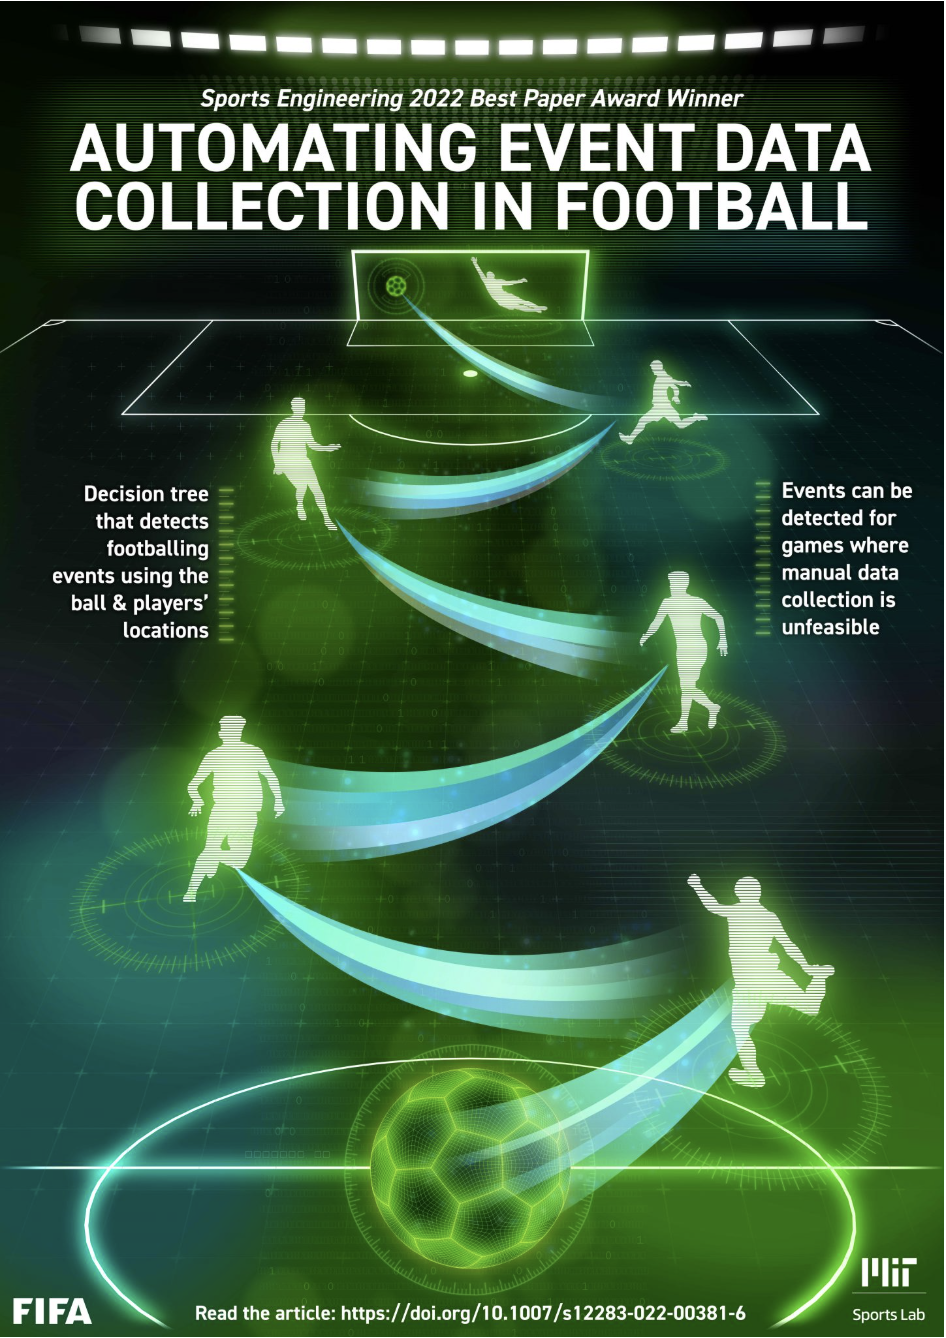
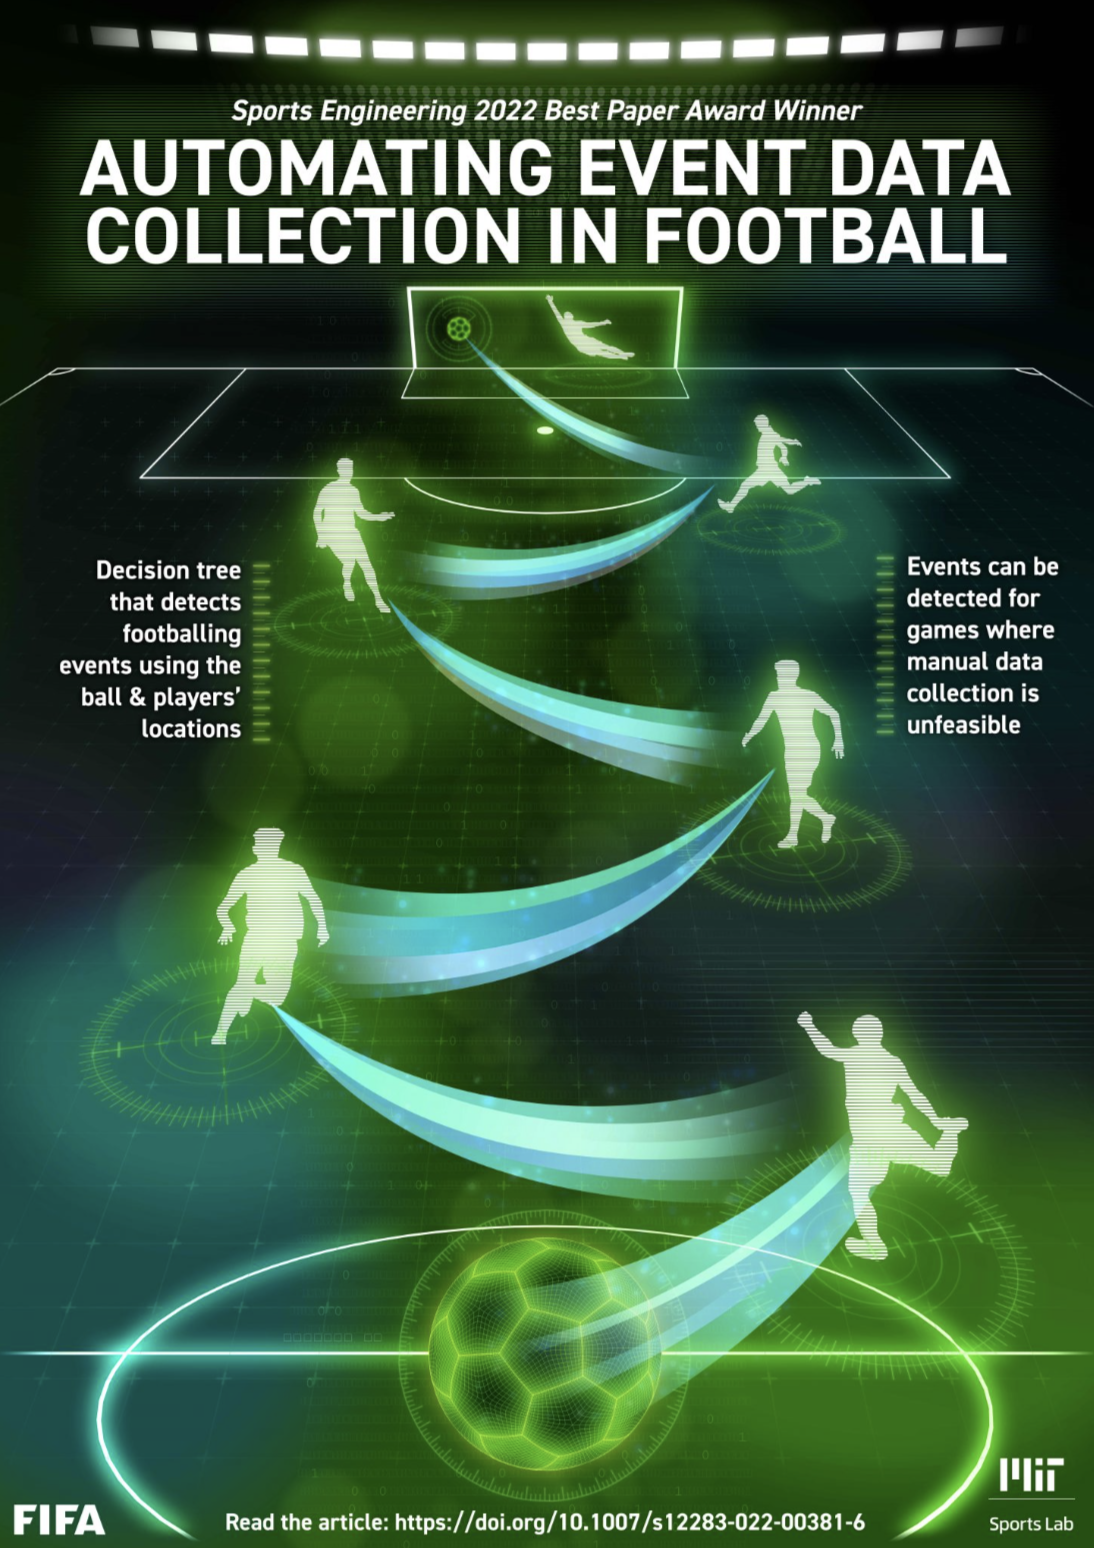
mlb charts, video fifa

diff --git a/assets/js/mlb-charts.js b/assets/js/mlb-charts.js
@@ -58,6 +58,14 @@
     return r.isOut === "true" || e.includes("out") ? "Out" : "Other";
   };
   const eventLabel = (r) => r.event || r.description || "Pitch";
+  const pitchResult = (r) => {
+    if (r.event) return r.isOut === "true" ? "In Play (Out)" : "In Play (Not Out)";
+    const call = (r.call || r.description || "").toLowerCase();
+    if (call.includes("foul")) return "Foul";
+    if (call.includes("swinging") || call.includes("missed bunt")) return "Swinging Strike";
+    if (call.includes("called strike")) return "Called Strike";
+    return "Ball";
+  };
   const tooltip = (wrap, data, type) => {
     const box = wrap.querySelector("[data-mlb-tooltip]");
     const score =
@@ -92,19 +100,82 @@
       wrap = root.querySelector(".fv-mlb-chart-wrap"),
       summary = root.querySelector("[data-mlb-summary]"),
       legend = root.querySelector("[data-mlb-legend]"),
-      filter = root.querySelector("[data-mlb-filter]");
+      metrics = root.querySelector("[data-mlb-metrics]"),
+      resultFilter = root.querySelector("[data-result-filter]");
+    const inputs = {
+      speedMin: root.querySelector("[data-speed-min]"),
+      speedMax: root.querySelector("[data-speed-max]"),
+      angleMin: root.querySelector("[data-angle-min]"),
+      angleMax: root.querySelector("[data-angle-max]"),
+      spinMin: root.querySelector("[data-spin-min]"),
+      spinMax: root.querySelector("[data-spin-max]"),
+      inningMin: root.querySelector("[data-inning-min]"),
+      inningMax: root.querySelector("[data-inning-max]"),
+    };
+    const limits = (key, fallback = 0) => {
+      const values = data
+        .map((r) => +(key === "angle" ? r.launchAngle : key === "spin" ? r.spinRate : key === "inning" ? r.inning : r.speed))
+        .filter(Number.isFinite);
+      return { min: values.length ? Math.min(...values) : fallback, max: values.length ? Math.max(...values) : fallback };
+    };
+    const bounds = { speed: limits("speed"), angle: limits("angle"), spin: limits("spin"), inning: limits("inning", 1) };
     let scale = 1,
       pan = { x: 0, y: 0 },
       drag = null,
       selected = "",
+      resultType = "",
       region = null,
       draft = null,
       selecting = false,
       group;
     const categories = [...new Set(data.map((r) => (kind === "spray" ? outcome(r) : r.pitchType)).filter(Boolean))].sort();
-    filter.innerHTML = `<option value="">All ${kind === "spray" ? "outcomes" : "pitch types"}</option>${categories.map((x) => `<option value="${esc(x)}">${esc(x)}</option>`).join("")}`;
+    const setRange = (name) => {
+      const low = inputs[`${name}Min`],
+        high = inputs[`${name}Max`],
+        limit = bounds[name];
+      if (!low || !high) return;
+      low.min = high.min = limit.min;
+      low.max = high.max = limit.max;
+      low.value = limit.min;
+      high.value = limit.max;
+      const labelMin = root.querySelector(`[data-${name}-min-label]`),
+        labelMax = root.querySelector(`[data-${name}-max-label]`);
+      const suffix = name === "spin" ? " rpm" : name === "inning" ? "" : name === "angle" ? "°" : " mph";
+      const update = () => {
+        labelMin.textContent = `${+low.value}${suffix}`;
+        labelMax.textContent = `${+high.value}${suffix}`;
+        const track = low.closest(".fv-double-range");
+        track.style.setProperty("--fv-range-start", `${((+low.value - limit.min) / Math.max(1, limit.max - limit.min)) * 100}%`);
+        track.style.setProperty("--fv-range-end", `${((+high.value - limit.min) / Math.max(1, limit.max - limit.min)) * 100}%`);
+      };
+      low.addEventListener("input", () => {
+        if (+low.value > +high.value) low.value = high.value;
+        update();
+        render();
+      });
+      high.addEventListener("input", () => {
+        if (+high.value < +low.value) high.value = low.value;
+        update();
+        render();
+      });
+      update();
+    };
+    ["speed", "angle", "spin", "inning"].forEach(setRange);
+    if (resultFilter) {
+      const results = [...new Set(data.map(pitchResult))].sort();
+      resultFilter.innerHTML = `<option value="">All results</option>${results.map((x) => `<option value="${esc(x)}">${esc(x)}</option>`).join("")}`;
+      resultFilter.addEventListener("change", () => {
+        resultType = resultFilter.value;
+        render();
+      });
+    }
     const match = (r) =>
       (!selected || (kind === "spray" ? outcome(r) : r.pitchType) === selected) &&
+      (!resultType || pitchResult(r) === resultType) &&
+      (!inputs.speedMin || (r.speed >= +inputs.speedMin.value && r.speed <= +inputs.speedMax.value)) &&
+      (!inputs.angleMin || (+r.launchAngle >= +inputs.angleMin.value && +r.launchAngle <= +inputs.angleMax.value)) &&
+      (!inputs.spinMin || (+r.spinRate >= +inputs.spinMin.value && +r.spinRate <= +inputs.spinMax.value)) &&
+      (!inputs.inningMin || (+r.inning >= +inputs.inningMin.value && +r.inning <= +inputs.inningMax.value)) &&
       (!region || (r.x >= region.x0 && r.x <= region.x1 && r.y >= region.y0 && r.y <= region.y1));
     const point = (event) => {
       const matrix = group?.getScreenCTM();
@@ -112,11 +183,25 @@
       const p = new DOMPoint(event.clientX, event.clientY).matrixTransform(matrix.inverse());
       return kind === "spray" ? { x: clamp(p.x, 0, 250), y: clamp(p.y, 0, 230) } : { x: clamp(p.x, -3, 3), y: clamp(p.y, 0, 5) };
     };
-    const bounds = (d) => ({ x0: Math.min(d.x0, d.x1), x1: Math.max(d.x0, d.x1), y0: Math.min(d.y0, d.y1), y1: Math.max(d.y0, d.y1) });
+    const regionBounds = (d) => ({ x0: Math.min(d.x0, d.x1), x1: Math.max(d.x0, d.x1), y0: Math.min(d.y0, d.y1), y1: Math.max(d.y0, d.y1) });
     const render = () => {
       const visible = data.filter(match),
         average = visible.length ? visible.reduce((a, r) => a + r.speed, 0) / visible.length : 0;
       summary.innerHTML = `<strong>${visible.length.toLocaleString()}</strong><span>${kind === "spray" ? "batted balls" : "pitches"} · ${average.toFixed(1)} mph avg</span>`;
+      if (metrics) {
+        const hits = visible.filter((r) => ["Single", "Double", "Triple", "Home Run"].includes(outcome(r))).length;
+        const hardHit = visible.filter((r) => r.speed >= 95).length;
+        const homers = visible.filter((r) => outcome(r) === "Home Run").length;
+        metrics.innerHTML = [
+          ["Batted balls", visible.length, visible.length === data.length ? "in view" : `of ${data.length} total`],
+          ["Hits", `${hits}/${visible.length}`, visible.length ? `${((hits / visible.length) * 100).toFixed(1)}% hit rate` : "no batted balls"],
+          ["Hard-Hit%", visible.length ? `${((hardHit / visible.length) * 100).toFixed(1)}%` : "--", "95+ mph exit velo"],
+          ["Avg exit velo", visible.length ? `${average.toFixed(1)} mph` : "--", "batted ball speed"],
+          ["Home runs", homers, visible.length ? `${((homers / visible.length) * 100).toFixed(1)}% of batted balls` : "none in view"],
+        ]
+          .map(([label, value, note]) => `<div><span>${label}</span><strong>${value}</strong><small>${note}</small></div>`)
+          .join("");
+      }
       chart.replaceChildren();
       group = svg("g", { transform: `translate(${pan.x / scale} ${pan.y / scale}) scale(${scale})` });
       chart.append(group);
@@ -176,7 +261,7 @@
         });
         group.append(mark, target);
       });
-      const active = draft ? bounds(draft) : region;
+      const active = draft ? regionBounds(draft) : region;
       if (active)
         group.append(
           svg("rect", {
@@ -200,7 +285,6 @@
       legend.querySelectorAll("button").forEach((b) =>
         b.addEventListener("click", () => {
           selected = selected === b.dataset.key ? "" : b.dataset.key;
-          filter.value = selected;
           render();
         })
       );
@@ -226,8 +310,19 @@
       else selecting = !selecting;
       render();
     };
-    filter.onchange = () => {
-      selected = filter.value;
+    root.querySelector("[data-filter-reset]").onclick = () => {
+      selected = "";
+      resultType = "";
+      region = null;
+      selecting = false;
+      ["speed", "angle", "spin", "inning"].forEach((name) => {
+        if (inputs[`${name}Min`]) {
+          inputs[`${name}Min`].value = bounds[name].min;
+          inputs[`${name}Max`].value = bounds[name].max;
+          inputs[`${name}Min`].dispatchEvent(new Event("input"));
+        }
+      });
+      if (resultFilter) resultFilter.value = "";
       render();
     };
     chart.addEventListener("wheel", (e) => {
@@ -259,7 +354,7 @@
     });
     chart.addEventListener("pointerup", () => {
       if (draft) {
-        const b = bounds(draft);
+        const b = regionBounds(draft);
         region = b.x1 - b.x0 > 0.05 && b.y1 - b.y0 > 0.05 ? b : null;
         draft = null;
         selecting = false;

diff --git a/assets/css/ferran.scss b/assets/css/ferran.scss
@@ -753,6 +753,33 @@ body {
   padding-top: 1.5rem;
 }
 
+.fv-mlb-metrics {
+  display: grid;
+  gap: 0.7rem;
+  grid-template-columns: repeat(5, minmax(0, 1fr));
+  margin: 0 0 1rem;
+}
+
+.fv-mlb-metrics > div {
+  border-bottom: 1px solid var(--fv-border);
+  border-top: 1px solid var(--fv-border);
+  padding: 0.65rem 0;
+}
+
+.fv-mlb-metrics span,
+.fv-mlb-metrics small {
+  color: var(--fv-muted);
+  display: block;
+  font-size: 0.7rem;
+  line-height: 1.3;
+}
+
+.fv-mlb-metrics strong {
+  display: block;
+  font-size: 1.05rem;
+  margin: 0.18rem 0;
+}
+
 .fv-mlb-legend {
   display: flex;
   flex-wrap: wrap;
@@ -811,6 +838,12 @@ body {
 
 .fv-mlb-chart-wrap--pitch .fv-mlb-chart {
   min-height: 420px;
+}
+
+@media (max-width: 720px) {
+  .fv-mlb-metrics {
+    grid-template-columns: repeat(2, minmax(0, 1fr));
+  }
 }
 
 .fv-summary {

diff --git a/_projects/sports-analytics-assistants.md b/_projects/sports-analytics-assistants.md
@@ -74,16 +74,15 @@ category: flagship
   <section class="fv-mlb-examples" aria-label="MLB assistant interactive examples">
     <div class="fv-mlb-example" data-mlb-chart="spray" data-source="{{ '/assets/data/shohei-ohtani-2026-through-august-spray-chart.csv' | relative_url }}">
       <div class="fv-chart-example__head"><div><p class="fv-chart-kicker">Interactive example · fixed data snapshot</p><h3>Shohei Ohtani · 2026 spray chart</h3><p>Every mapped batted ball from the regular season through August 31.</p></div><div class="fv-chart-summary" data-mlb-summary aria-live="polite"></div></div>
-      <div class="fv-chart-controls" aria-label="Spray chart controls"><label>Outcome <select data-mlb-filter></select></label><div class="fv-zoom-controls"><button type="button" data-zoom-out aria-label="Zoom out">−</button><button type="button" data-zoom-in aria-label="Zoom in">+</button><button type="button" data-reset aria-label="Reset zoom and pan">↺</button></div><button type="button" class="fv-select-area" data-region aria-pressed="false">Select area</button></div>
-      <div class="fv-mlb-legend" data-mlb-legend aria-label="Spray chart legend"></div>
-      <div class="fv-mlb-chart-wrap"><svg class="fv-mlb-chart" viewBox="-20 -20 290 270" role="img" aria-label="Shohei Ohtani 2026 spray chart through August 31"></svg><div class="fv-shot-tooltip" data-mlb-tooltip role="status" aria-live="polite" hidden></div></div>
+      <div class="fv-mlb-metrics" data-mlb-metrics aria-live="polite"></div>
+      <div class="fv-chart-controls" aria-label="Spray chart controls"><div class="fv-zoom-controls"><button type="button" data-zoom-out aria-label="Zoom out">−</button><button type="button" data-zoom-in aria-label="Zoom in">+</button><button type="button" data-reset aria-label="Reset zoom and pan">↺</button></div><button type="button" class="fv-select-area" data-region aria-pressed="false">Select area</button></div>
+      <div class="fv-chart-workbench"><div><div class="fv-mlb-legend" data-mlb-legend aria-label="Spray chart legend"></div><div class="fv-mlb-chart-wrap"><svg class="fv-mlb-chart" viewBox="-20 -20 290 270" role="img" aria-label="Shohei Ohtani 2026 spray chart through August 31"></svg><div class="fv-shot-tooltip" data-mlb-tooltip role="status" aria-live="polite" hidden></div></div></div><aside class="fv-filter-drawer fv-mlb-filter-panel" aria-label="Spray chart filters"><div class="fv-filter-drawer__head"><strong>Filters</strong><button type="button" data-filter-reset>Reset filters</button></div><fieldset class="fv-filter-group"><legend>Exit velocity</legend><div class="fv-range-group"><div><span data-speed-min-label></span><span data-speed-max-label></span></div><div class="fv-double-range"><input type="range" data-speed-min step="0.1"><input type="range" data-speed-max step="0.1"></div></div></fieldset><fieldset class="fv-filter-group"><legend>Launch angle</legend><div class="fv-range-group"><div><span data-angle-min-label></span><span data-angle-max-label></span></div><div class="fv-double-range"><input type="range" data-angle-min step="1"><input type="range" data-angle-max step="1"></div></div></fieldset><fieldset class="fv-filter-group"><legend>Inning</legend><div class="fv-range-group"><div><span data-inning-min-label></span><span data-inning-max-label></span></div><div class="fv-double-range"><input type="range" data-inning-min step="1"><input type="range" data-inning-max step="1"></div></div></fieldset></aside></div>
     </div>
 
     <div class="fv-mlb-example" data-mlb-chart="pitch" data-source="{{ '/assets/data/shohei-ohtani-2026-through-august-pitch-chart.csv' | relative_url }}">
       <div class="fv-chart-example__head"><div><p class="fv-chart-kicker">Interactive example · fixed data snapshot</p><h3>Shohei Ohtani · 2026 pitcher chart</h3><p>Every tracked pitch from the regular season through August 31.</p></div><div class="fv-chart-summary" data-mlb-summary aria-live="polite"></div></div>
-      <div class="fv-chart-controls" aria-label="Pitcher chart controls"><label>Pitch type <select data-mlb-filter></select></label><div class="fv-zoom-controls"><button type="button" data-zoom-out aria-label="Zoom out">−</button><button type="button" data-zoom-in aria-label="Zoom in">+</button><button type="button" data-reset aria-label="Reset zoom and pan">↺</button></div><button type="button" class="fv-select-area" data-region aria-pressed="false">Select area</button></div>
-      <div class="fv-mlb-legend" data-mlb-legend aria-label="Pitch type legend"></div>
-      <div class="fv-mlb-chart-wrap fv-mlb-chart-wrap--pitch"><svg class="fv-mlb-chart" viewBox="-3 0 6 5" role="img" aria-label="Shohei Ohtani 2026 pitch location chart through August 31"></svg><div class="fv-shot-tooltip" data-mlb-tooltip role="status" aria-live="polite" hidden></div></div>
+      <div class="fv-chart-controls" aria-label="Pitcher chart controls"><div class="fv-zoom-controls"><button type="button" data-zoom-out aria-label="Zoom out">−</button><button type="button" data-zoom-in aria-label="Zoom in">+</button><button type="button" data-reset aria-label="Reset zoom and pan">↺</button></div><button type="button" class="fv-select-area" data-region aria-pressed="false">Select area</button></div>
+      <div class="fv-chart-workbench"><div><div class="fv-mlb-legend" data-mlb-legend aria-label="Pitch type legend"></div><div class="fv-mlb-chart-wrap fv-mlb-chart-wrap--pitch"><svg class="fv-mlb-chart" viewBox="-3 0 6 5" role="img" aria-label="Shohei Ohtani 2026 pitch location chart through August 31"></svg><div class="fv-shot-tooltip" data-mlb-tooltip role="status" aria-live="polite" hidden></div></div></div><aside class="fv-filter-drawer fv-mlb-filter-panel" aria-label="Pitcher chart filters"><div class="fv-filter-drawer__head"><strong>Filters</strong><button type="button" data-filter-reset>Reset filters</button></div><div class="fv-filter-grid"><label>Result <select data-result-filter></select></label></div><fieldset class="fv-filter-group"><legend>Velocity</legend><div class="fv-range-group"><div><span data-speed-min-label></span><span data-speed-max-label></span></div><div class="fv-double-range"><input type="range" data-speed-min step="0.1"><input type="range" data-speed-max step="0.1"></div></div></fieldset><fieldset class="fv-filter-group"><legend>Spin rate</legend><div class="fv-range-group"><div><span data-spin-min-label></span><span data-spin-max-label></span></div><div class="fv-double-range"><input type="range" data-spin-min step="1"><input type="range" data-spin-max step="1"></div></div></fieldset><fieldset class="fv-filter-group"><legend>Inning</legend><div class="fv-range-group"><div><span data-inning-min-label></span><span data-inning-max-label></span></div><div class="fv-double-range"><input type="range" data-inning-min step="1"><input type="range" data-inning-max step="1"></div></div></fieldset></aside></div>
     </div>
 
   </section>

diff --git a/_projects/fifa-auto-eventing.md b/_projects/fifa-auto-eventing.md
@@ -31,7 +31,7 @@ category: flagship
 
   <h2>Production and impact</h2>
   <p>The pipeline ran on GCP, wrote generated events to a data warehouse and data lake, and produced automated match reports. It was used for post-match auto-eventing at the 2022 FIFA World Cup, fully embedded within FIFA's data ecosystem.</p>
-  <p>The research received the International Sports Engineering Association and Springer Sports Engineering Paper of the Year award in 2023.</p>
+  <p>The research received the International Sports Engineering Association and Springer Sports Engineering Paper of the Year award in 2022.</p>
     <p>The efforts we spearheaded paved the path towards all major football tracking data companies today offering similar automated event data products.</p>
 
   <figure class="fv-figure">
